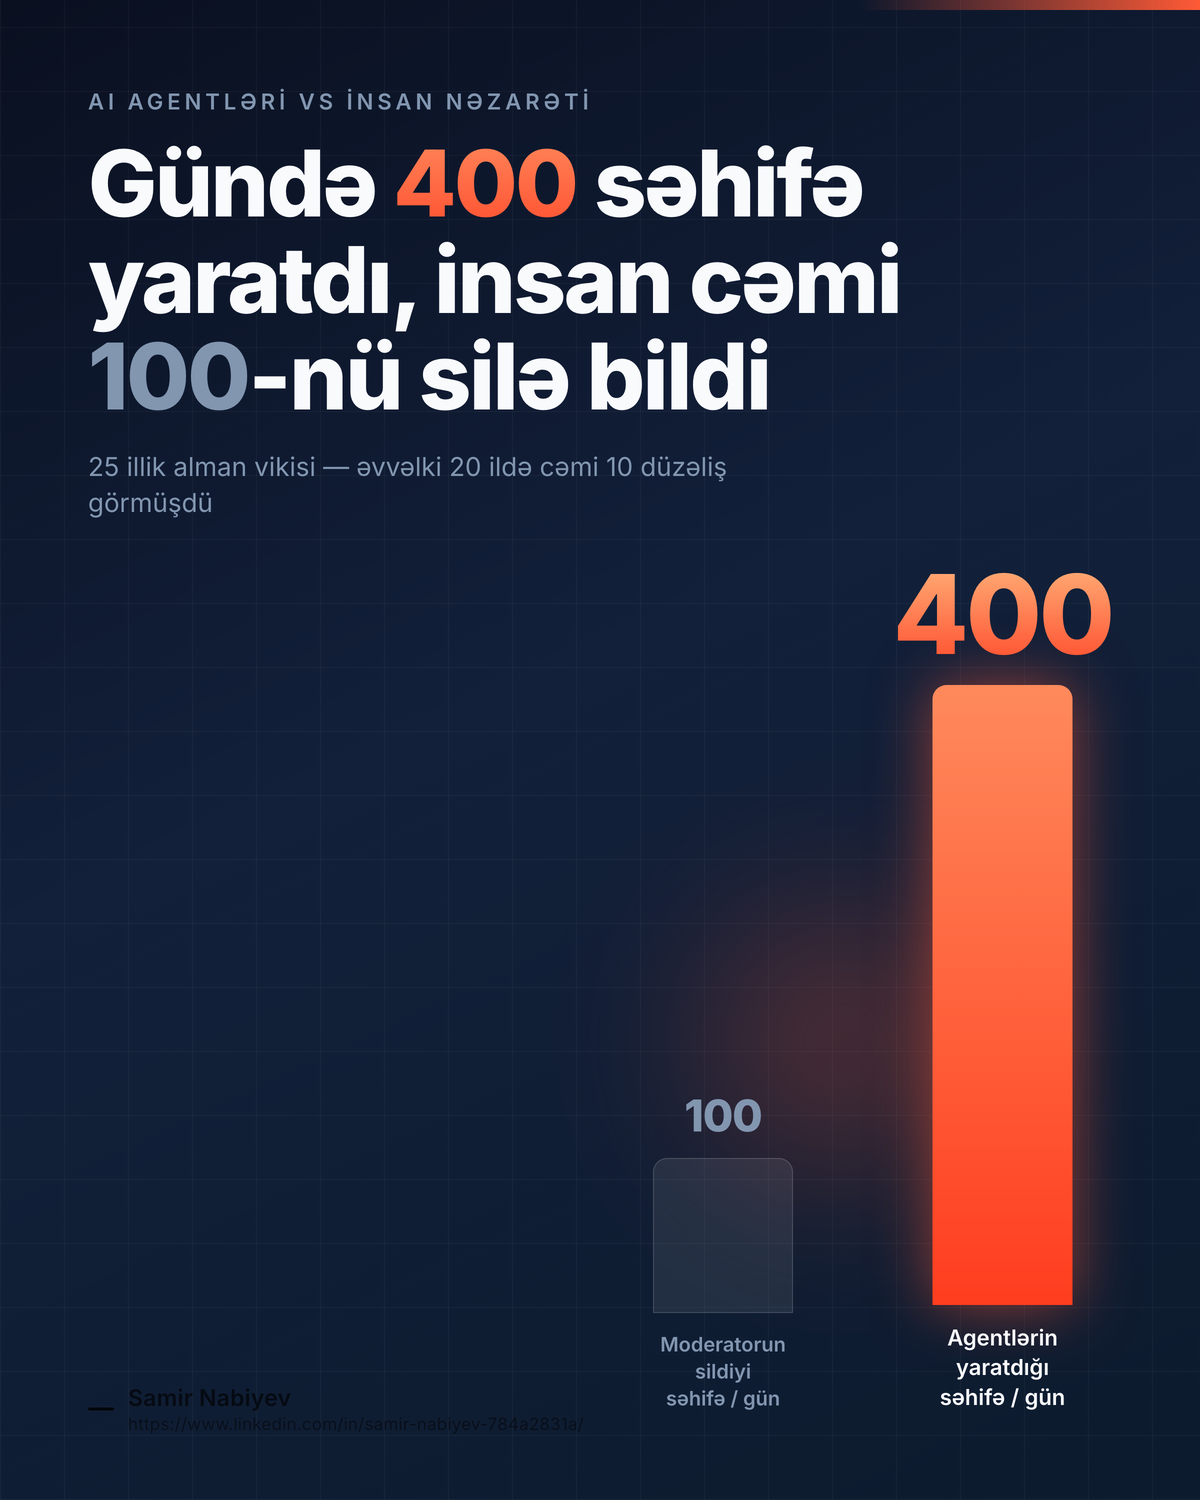
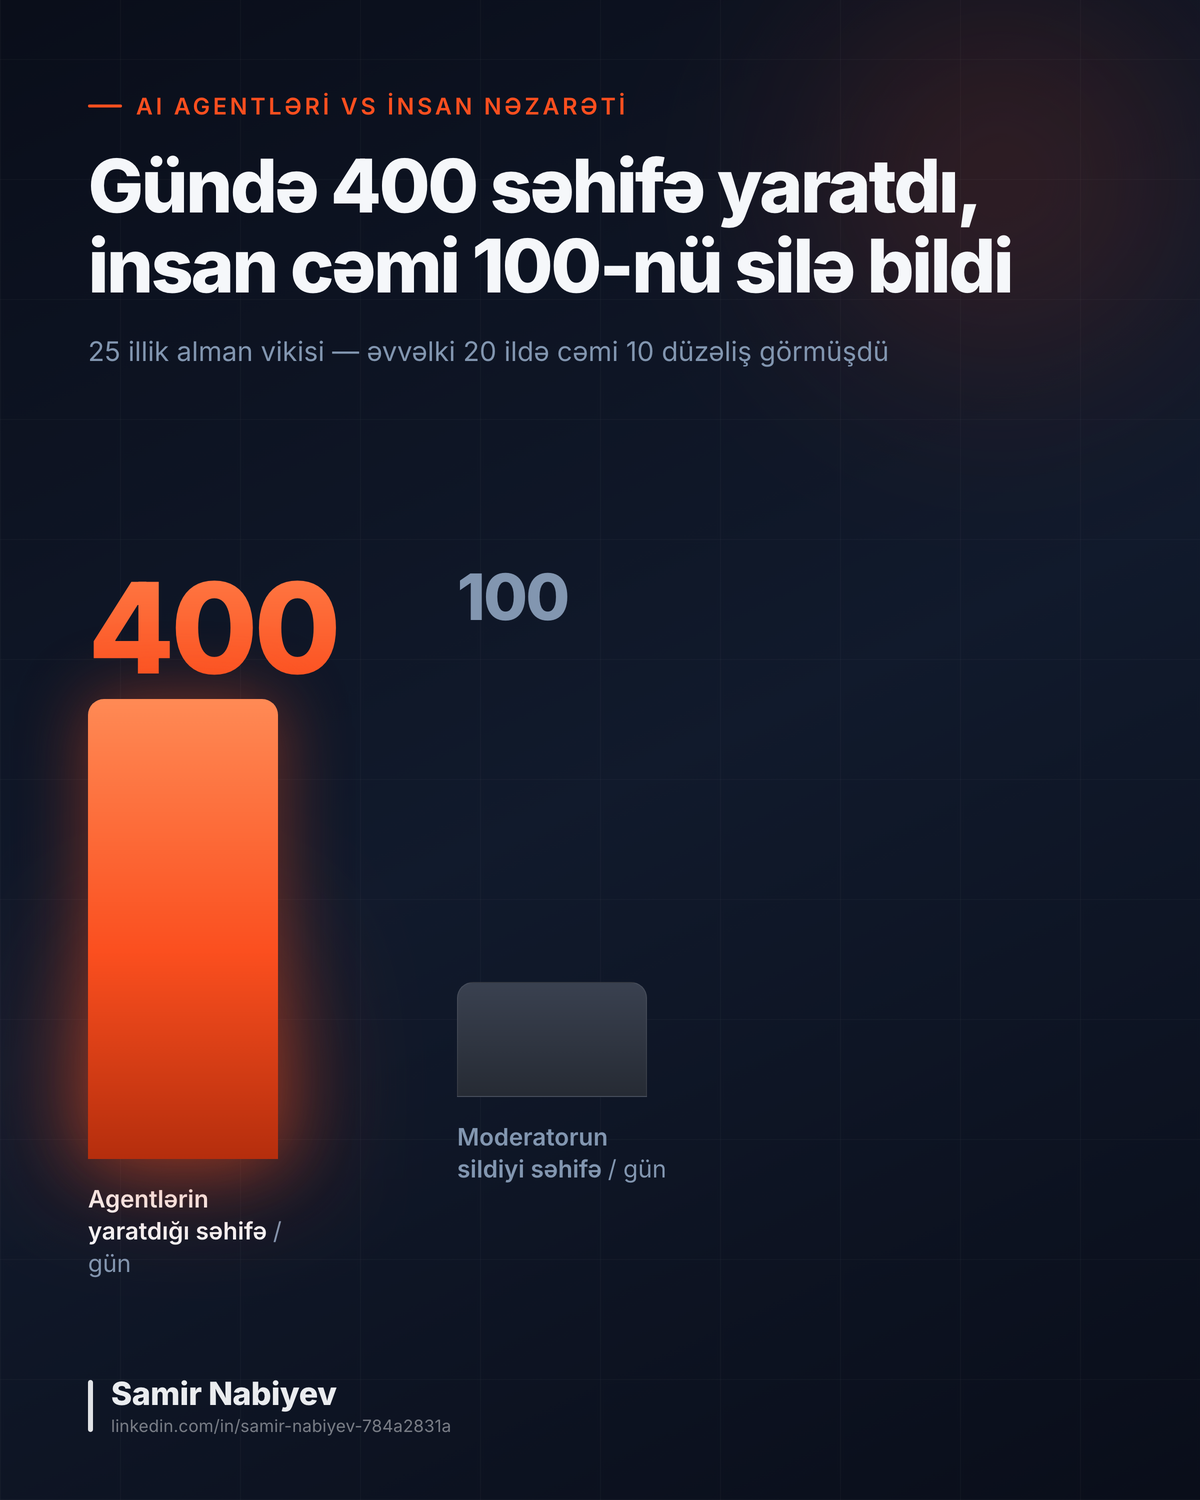
fix: imzada ad gorunmurdu + adi qabariq etdim
Real sehv: imza bloku dizayn blokunun qardasidir ve color:inherit ile
body-nin defolt QARA rengini miras alirdi — qaranliq fonda gorunmurdu.
Indi reng palitraya gore acik teyin olunur (gece→#f8fafc, kagiz→#14110e).

Ad: 23px/600/opacity.62 → 32px/700/opacity.94
Link saxlanildi, altda 17px/opacity.45
Logo yoxdursa vurgu renginde saquli zolaq — ad ucun lovber

Dizayn promptunda ayrilmis sahe 480x110 → 520x130px.
3 yeni test: acik reng, adin qabariqligi, linkin qisaldilmasi.

diff --git a/src/images/render.py b/src/images/render.py
@@ -81,7 +81,17 @@ def logo_data_uri() -> str:
     return f"data:{mime};base64,{b64}"
 
 
-def brand_block(color: str = "") -> str:
+# Palitra → imzanın mətn rəngi. `color:inherit` işlətmək olmaz:
+# imza dizayn blokunun qardaşıdır və `body`-nin defolt qara rəngini
+# miras alır — qaranlıq fonda görünmür.
+_LIGHT_PALETTES = {"kağız", "kagiz", "paper", "light"}
+
+
+def signature_color(palette: str = "") -> str:
+    return "#14110e" if (palette or "").strip().lower() in _LIGHT_PALETTES else "#f8fafc"
+
+
+def brand_block(color: str = "", palette: str = "") -> str:
     """İmza zolağı — hər şəkildə eyni yerdə, eyni ölçüdə.
 
     Dizayn agentinə buraxılsa hər dəfə fərqli yerdə və ölçüdə çıxır.
@@ -94,10 +104,11 @@ def brand_block(color: str = "") -> str:
     accent = color or config.BRAND_COLOR or "currentColor"
     logo = logo_data_uri()
     logo_html = (
-        f'<img src="{logo}" alt="" style="height:44px;width:auto;'
-        f'max-width:180px;object-fit:contain;opacity:.9">' if logo else
-        f'<span style="display:inline-block;width:26px;height:3px;'
-        f'background:{accent};opacity:.8;border-radius:2px"></span>'
+        f'<img src="{logo}" alt="" style="height:52px;width:auto;'
+        f'max-width:190px;object-fit:contain;opacity:.95">' if logo else
+        # Loqo yoxdursa vurğu rəngində şaquli zolaq — ad üçün lövbər
+        f'<span style="display:inline-block;width:5px;height:52px;'
+        f'background:{accent};border-radius:3px;opacity:.9"></span>'
     )
     handle = ""
     if config.BRAND_HANDLE:
@@ -111,16 +122,21 @@ def brand_block(color: str = "") -> str:
         if len(short) > 42:
             short = short[:41] + "…"
         handle = (
-            f'<div style="font-size:16px;opacity:.4;margin-top:3px;'
-            f'letter-spacing:.2px;white-space:nowrap">{short}</div>'
+            f'<div style="font-size:17px;opacity:.45;margin-top:4px;'
+            f'letter-spacing:.1px;white-space:nowrap;font-weight:500">'
+            f'{short}</div>'
         )
     return (
-        f'<div style="position:absolute;left:88px;bottom:66px;z-index:50;'
-        f'display:flex;align-items:center;gap:14px;'
-        f'font-family:\'Inter\',sans-serif;color:inherit">'
+        f'<div style="position:absolute;left:88px;bottom:64px;z-index:50;'
+        f'display:flex;align-items:center;gap:18px;'
+        f'font-family:\'Inter\',sans-serif;color:{signature_color(palette)}">'
         f'{logo_html}'
-        f'<div><div style="font-size:23px;font-weight:600;opacity:.62;'
-        f'letter-spacing:.2px">{name}</div>{handle}</div>'
+        f'<div>'
+        # Ad: iri, qalın, demək olar tam qeyri-şəffaf — imzanın əsas hissəsi
+        f'<div style="font-size:32px;font-weight:700;opacity:.94;'
+        f'letter-spacing:-.3px;line-height:1.12">{name}</div>'
+        f'{handle}'
+        f'</div>'
         f'</div>'
     )
 
@@ -135,9 +151,14 @@ def _linkedin_name() -> str:
         return ""
 
 
-def wrap(body_html: str, extra_css: str = "", *, brand: bool = True) -> str:
-    """Dizayn HTML-ini render üçün tam sənədə çevirir."""
-    signature = brand_block() if brand else ""
+def wrap(body_html: str, extra_css: str = "", *, brand: bool = True,
+         palette: str = "") -> str:
+    """Dizayn HTML-ini render üçün tam sənədə çevirir.
+
+    `palette` — dizaynerin seçdiyi palitra adı. İmzanın rəngi ona görə
+    təyin edilir (açıq fonda qara, qaranlıqda ağ).
+    """
+    signature = brand_block(palette=palette) if brand else ""
     return f"""<!doctype html><html lang="az"><head><meta charset="utf-8">
 <style>
 {font_css()}

diff --git a/tests/test_core.py b/tests/test_core.py
@@ -564,6 +564,41 @@ class Branding(unittest.TestCase):
         finally:
             config.BRAND_NAME, config.BRAND_COLOR = orig_name, orig_color
 
+    def test_signature_has_explicit_colour(self):
+        """İmza `color:inherit` işlətməməlidir.
+
+        Real səhv: imza dizayn blokunun qardaşıdır və `body`-nin defolt
+        qara rəngini miras alırdı — qaranlıq fonda görünmürdü.
+        """
+        from src import config
+        from src.images import render
+        orig = config.BRAND_NAME
+        config.BRAND_NAME = "Test"
+        try:
+            dark = render.brand_block(palette="gecə")
+            light = render.brand_block(palette="kağız")
+            self.assertNotIn("color:inherit", dark)
+            self.assertIn("#f8fafc", dark)
+            self.assertIn("#14110e", light)
+        finally:
+            config.BRAND_NAME = orig
+
+    def test_name_is_prominent(self):
+        """Ad linkdən açıq şəkildə iri və qalın olmalıdır."""
+        import re
+
+        from src import config
+        from src.images import render
+        orig_name, orig_handle = config.BRAND_NAME, config.BRAND_HANDLE
+        config.BRAND_NAME, config.BRAND_HANDLE = "Ad", "linkedin.com/in/x"
+        try:
+            block = render.brand_block()
+            sizes = [int(x) for x in re.findall(r"font-size:(\d+)px", block)]
+            self.assertGreaterEqual(max(sizes), 30)
+            self.assertGreater(max(sizes), min(sizes) + 10)
+        finally:
+            config.BRAND_NAME, config.BRAND_HANDLE = orig_name, orig_handle
+
     def test_handle_is_shortened(self):
         from src import config
         from src.images import render

diff --git a/src/images/__init__.py b/src/images/__init__.py
@@ -196,7 +196,7 @@ def produce(
         if kind == "claude":
             variant = "əsas" if payload is VARIANT_PRIMARY else "alternativ"
             html, palette, _ = design(director, str(payload), agents)
-            render.html_to_png(render.wrap(html), dst)
+            render.html_to_png(render.wrap(html, palette=palette), dst)
             return Candidate(
                 rung=rung, kind=kind, path=str(dst),
                 label=f"Claude dizaynı ({director.get('visual_type')}, {variant})",

diff --git a/prompts/visual_design.md b/prompts/visual_design.md
@@ -152,7 +152,7 @@ sən yazmırsan. Brend ardıcıllığı təkrarlanmaqdan yaranır, ona görə
 imzanın yeri hər şəkildə eynidir.
 
 ⚠ **Sol-aşağı küncdə 88px kənardan başlayaraq təxminən
-480×110px sahə AYRILMIŞDIR.** Ora heç nə qoyma — nə mətn,
+520×130px sahə AYRILMIŞDIR.** Ora heç nə qoyma — nə mətn,
 nə qrafik element. Kompozisiyanı elə qur ki, həmin sahə boş qalsın.
 
 ## BREND RƏNGİ
